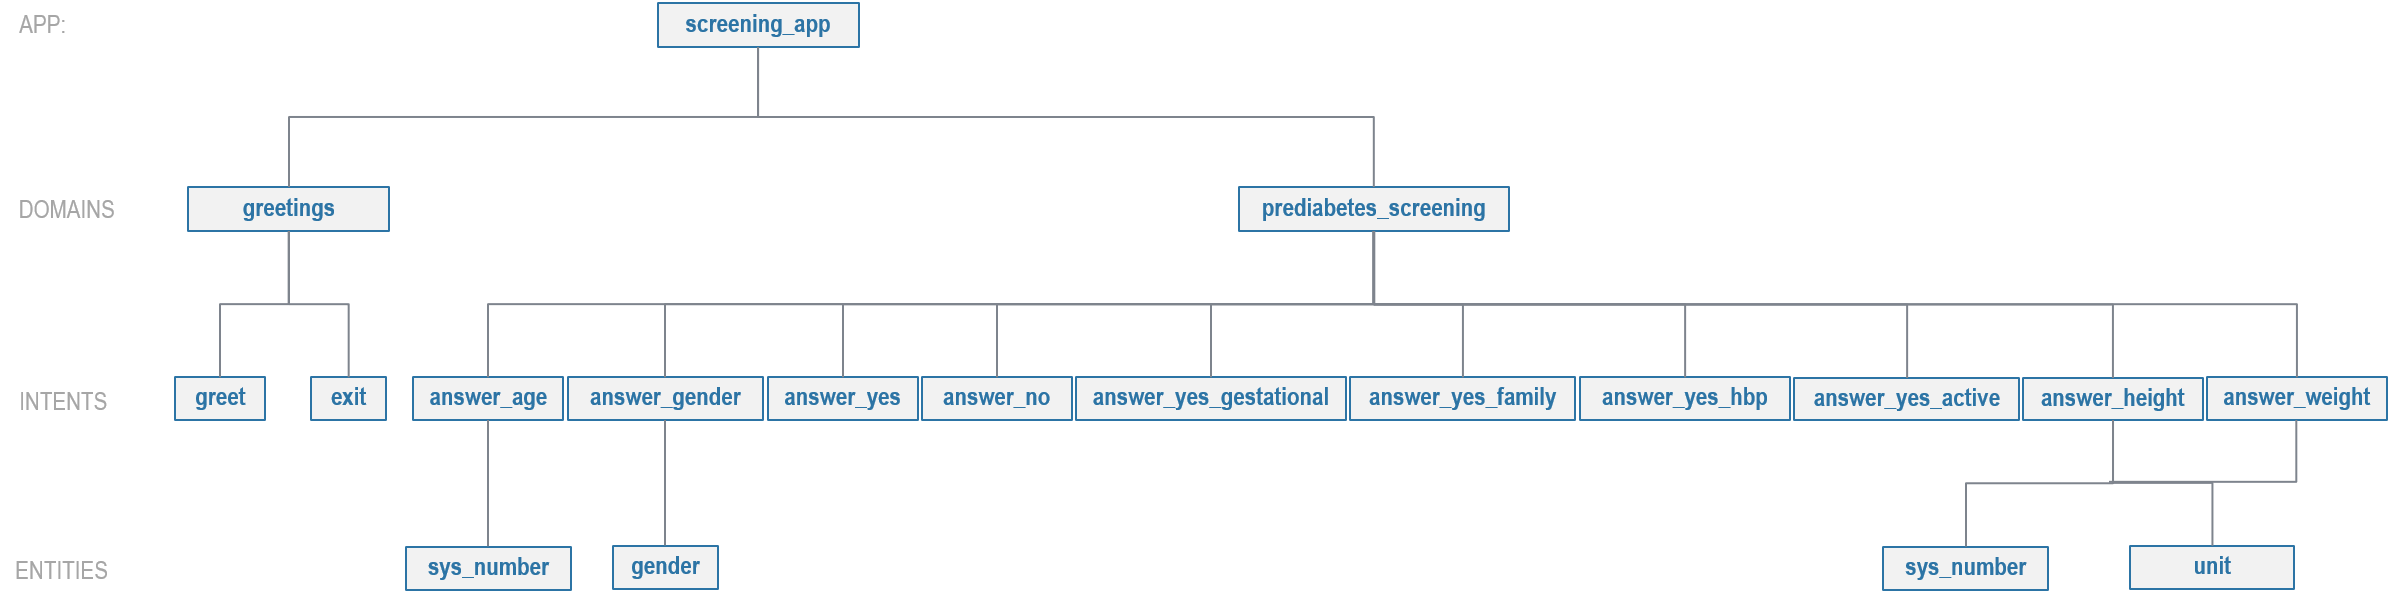
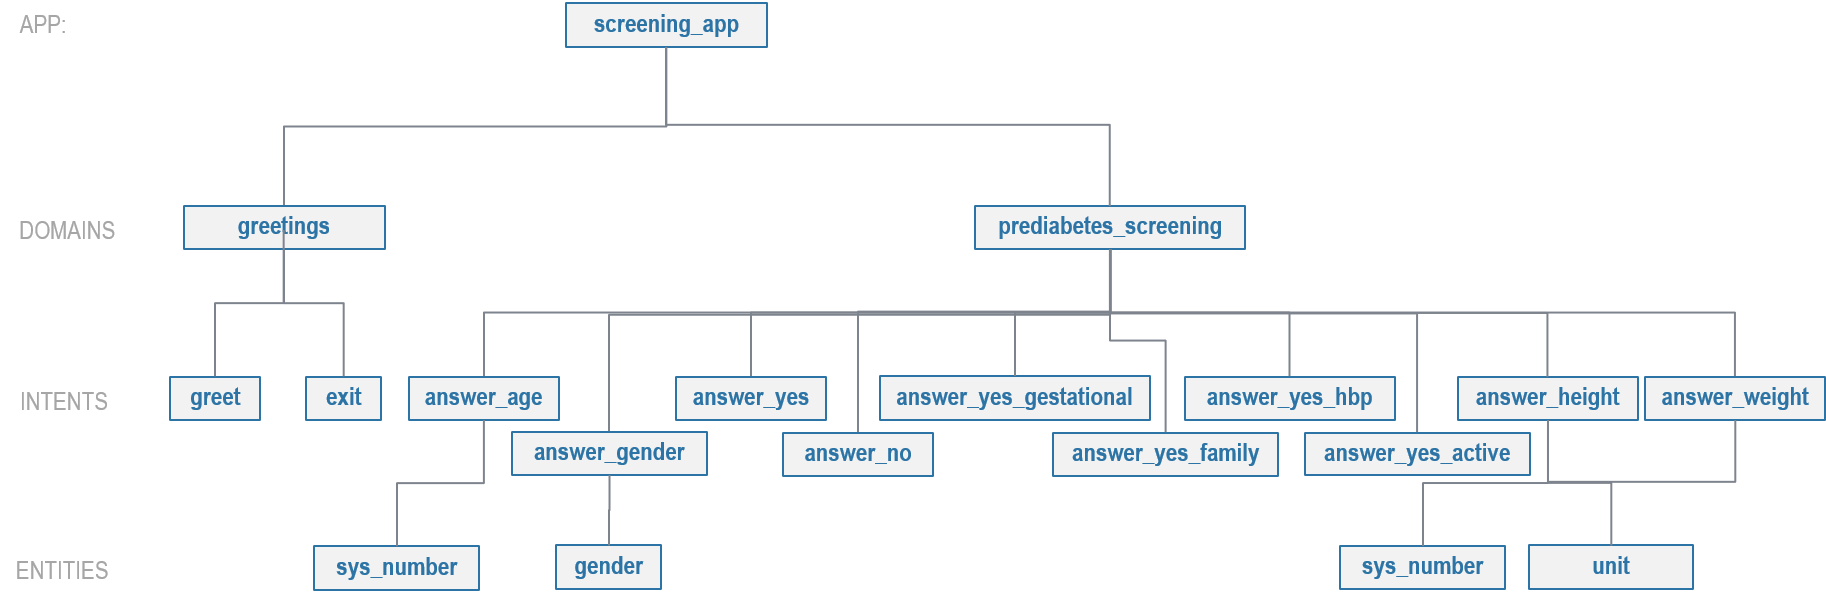
Added screening app to index

diff --git a/source/blueprints/screening_app.rst b/source/blueprints/screening_app.rst
@@ -5,7 +5,7 @@ In this step-by-step walkthrough, you'll build a conversational application for 
 
 Working through this blueprint will teach you how to
 
-   - configure a mindmeld application in a language different than English
+   - configure a MindMeld application in a language different than English
    - handle a large number of domains and intents
    - learn non-system entities
    - use dialogue flows to structure the conversation
@@ -17,7 +17,7 @@ Working through this blueprint will teach you how to
 1. The Use Case
 ^^^^^^^^^^^^^^^
 
-This screening application would be offered by a public health department, and would ask questions in Spanish about an individual's medical history. Users should be able to provide answers to a series of questions and receive an assessment about their risk for prediabetes. They should be able to opt out of the questionnaire at any time.
+This screening application would be offered by a public health department and would ask questions in Spanish about an individual's medical history. Users should be able to provide answers to a series of questions and receive an assessment about their risk for prediabetes. They should be able to opt-out of the questionnaire at any time.
 A user's risk is calculated based on the `questionnaire <https://www.cdc.gov/diabetes/risktest/index.html>`_ provided by the American Diabetes Association and the Centers for Disease Control and Prevention.
 
 
@@ -26,7 +26,7 @@ A user's risk is calculated based on the `questionnaire <https://www.cdc.gov/dia
 
 The conversational flows for a health screening will primarily involve asking users a series of questions about their medical history relevant to prediabetes. Once all necessary questions have been asked, the users are informed of their risk for presenting prediabetes.
 
-Here is an examples of a scripted dialogue interaction for conversational flows. Although the screening is done in Spanish, for instructional purposes we demonstrate the same interaction in English.
+Here is an example of a scripted dialogue interaction for conversational flows. Although the screening is done in Spanish, for instructional purposes, we demonstrate the same interaction in English.
 
 .. image:: /images/screening_interactions.png
     :width: 700px
@@ -38,6 +38,8 @@ Here is an examples of a scripted dialogue interaction for conversational flows.
 Here is the NLP model hierarchy for our screening application.
 
 .. image:: /images/screening_hierarchy.png
+    :height: 600px
+    :align: center
 
 The screening blueprint is organized into two domains: ``greetings`` and ``prediabetes_screening``.
 
@@ -46,7 +48,7 @@ The full list of intents for both domains is illustrated below.
 The ``greetings`` domain supports the following intents:
 
    - ``greet`` — Greet the user and ask them if they would like to be screened for prediabetes.
-   - ``exit`` — Opt out of the screening and say bye to the user.
+   - ``exit`` — Opt-out of the screening and say bye to the user.
 
 The ``prediabetes_screening`` domain supports the following intents:
 
@@ -58,7 +60,7 @@ The ``prediabetes_screening`` domain supports the following intents:
    - ``answer_yes_gestational`` — User wants to answer the question regarding gestational diabetes with an implied "yes". For example, the answer: "During my first pregnancy" implies an affirmative response.
    - ``answer_yes_family`` — User wants to answer the question regarding family history of diabetes with an implied "yes".
    - ``answer_yes_hbp`` — User wants to answer the question regarding high blood pressure with an implied "yes".
-   - ``answer_yes_active`` — User wants to answer the question regarding physcial activity with an implied "yes".
+   - ``answer_yes_active`` — User wants to answer the question regarding physical activity with an implied "yes".
    - ``answer_height`` — User wants to provide their height.
    - ``answer_weight`` — User wants to provide their weight.
 
@@ -175,7 +177,7 @@ Observe that the dialogue states for ``confirm_send_next`` and ``negate_send_nex
 5. Knowledge Base
 ^^^^^^^^^^^^^^^^^
 
-The screening blueprint is a straightforward question-answer application. It has no catalogs, and therefore does not need a knowledge base.
+The screening blueprint is a straightforward question-answer application. It has no catalogs and therefore does not need a knowledge base.
 
 6. Training Data
 ^^^^^^^^^^^^^^^^
@@ -208,9 +210,6 @@ The ``domains`` directory contains the training data for intent classification a
 
    - Read :doc:`Step 6 <../quickstart/06_generate_representative_training_data>` of the Step-By-Step Guide for best practices around training data generation and annotation for conversational apps. Following those principles, create additional labeled data for all the intents in this blueprint and use them as held-out validation data for evaluating your app. You can read more about :doc:`NLP model evaluation and error analysis <../userguide/nlp>` in the user guide.
 
-   - To train NLP models for your own home assistant application, you can start by reusing the blueprint data for generic intents like ``greet`` and ``exit``. However, for core intents like ``check_weather`` in the ``weather`` domain, it's recommended that you collect new training data that is tailored towards the entities (``city``, ``duration``) that your application needs to support. Follow the same approach to gather new training data for the ``check_weather`` intent or any additional intents and entities needed for your application.
-
-
 7. Training the NLP Classifiers
 ^^^^^^^^^^^^^^^^^^^^^^^^^^^^^^^
 
@@ -221,9 +220,9 @@ Mindmeld supports `ISO 639-1 and ISO 639-2 language codes <https://en.wikipedia.
 `ISO 3166-2 locale codes <https://www.iso.org/obp/ui/#search/code/>`_. Locale codes are represented as ISO 639-1 language code
 and ISO3166 alpha 2 country code separated by an underscore character, for example, `en_US`.
 
-For the app to use Spanish in Mindmeld, the ``config.py`` file needs to configured as follows:
+For the app to use Spanish in Mindmeld, the ``config.py`` file needs to be configured as follows:
 
-.. code:: python
+.. code-block:: console
 
     LANGUAGE_CONFIG = {
         'language': 'es',
@@ -232,7 +231,7 @@ For the app to use Spanish in Mindmeld, the ``config.py`` file needs to configur
 
 Note that Mexico (MX) is set as the locale. If the language and locale codes are not configured in ``config.py``, Mindmeld uses this default:
 
-.. code:: python
+.. code-block:: console
 
     LANGUAGE_CONFIG = {
         'language': 'en',
@@ -246,7 +245,7 @@ Mindmeld supports most languages that can be tokenized like English. Apart from 
    dc = nlp.domain_classifier
    dc.view_extracted_features('quiero conocer mi riesgo')
 
-.. code::python
+.. code-block:: console
 
    {
       'bag_of_words_stemmed|length:1|ngram:conoc': 1,

diff --git a/source/index.rst b/source/index.rst
@@ -96,6 +96,7 @@ Contents
    blueprints/home_assistant
    blueprints/hr_assistant
    blueprints/banking
+   blueprints/screening_app
 
 .. toctree::
    :maxdepth: 2
